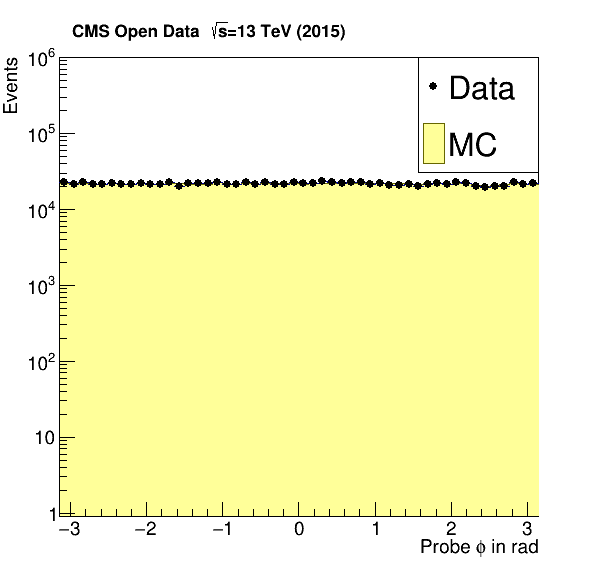
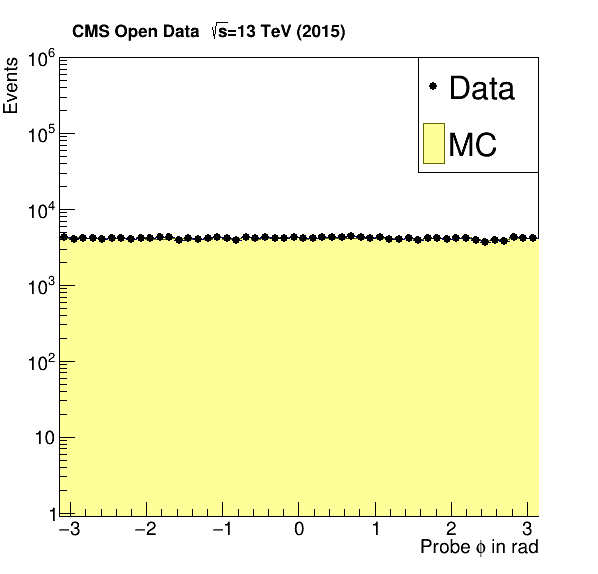
Updated tagnprobe graphs of ptetaphi

Changed region(s): [[0.0903, 0.2962, 0.903, 0.4443]]

diff --git a/ptetaphitnp/ptetaphiplots.cc b/ptetaphitnp/ptetaphiplots.cc
@@ -104,21 +104,21 @@ void ptetaphiplots() {
 
     // Create histograms for data
     TH1F *tag_Et  = new TH1F("E_tag","E_T tag", 70,0,2500 );
-    TH1F *tag_pt  = new TH1F("pt_tag","p_T tag", 70,0,900 );
+    TH1F *tag_pt  = new TH1F("pt_tag","p_T tag", 70,0,500 );
     TH1F *tag_eta = new TH1F("eta_tag","|#eta| tag", 60,0,3.5 );
     TH1F *tag_phi = new TH1F("phi_tag","#phi tag", 50,-pi,pi );
     TH1F *prb_Et  = new TH1F("E_prb","Et probe", 70,0,1000 );
-    TH1F *prb_pt  = new TH1F("pt_prb","pt probe", 70,0,350 );
+    TH1F *prb_pt  = new TH1F("pt_prb","pt probe", 70,0,250 );
     TH1F *prb_eta = new TH1F("eta_prb","|#eta| probe", 60,0,3.5 );
     TH1F *prb_phi = new TH1F("phi_prb","#phi probe", 50,-pi,pi );
 
     // Create histograms for MC
     TH1F *tag_Et_MC  = new TH1F("E_tag_MC","E_T tag MC", 70,0,2500 );
-    TH1F *tag_pt_MC  = new TH1F("pt_tag_MC","p_T tag MC", 70,0,900 );
+    TH1F *tag_pt_MC  = new TH1F("pt_tag_MC","p_T tag MC", 70,0,500 );
     TH1F *tag_eta_MC = new TH1F("eta_tag_MC","|#eta| tag MC", 60,0,3.5 );
     TH1F *tag_phi_MC = new TH1F("phi_tag_MC","#phi tag MC", 50,-pi,pi );
     TH1F *prb_Et_MC  = new TH1F("E_prb_MC","Et probe MC", 70,0,1000 );
-    TH1F *prb_pt_MC  = new TH1F("pt_prb_MC","pt probe MC", 70,0,350 );
+    TH1F *prb_pt_MC  = new TH1F("pt_prb_MC","pt probe MC", 70,0,250 );
     TH1F *prb_eta_MC = new TH1F("eta_prb_MC","|#eta| probe MC", 60,0,3.5 );
     TH1F *prb_phi_MC = new TH1F("phi_prb_MC","#phi probe MC", 50,-pi,pi );
 
@@ -128,6 +128,7 @@ void ptetaphiplots() {
       if (i%10000==0)
 	std::cout<<i/10000<<"\t";
       tree->GetEntry(i);
+      if(tag_Ele_isTight==1){
       tag_Et->Fill(tag_Ele_e);
       tag_pt->Fill(tag_Ele_pt);
       tag_eta->Fill(abs(tag_Ele_eta));
@@ -135,7 +136,7 @@ void ptetaphiplots() {
       prb_Et->Fill(probe_Ele_e);
       prb_pt->Fill(probe_Ele_pt);
       prb_eta->Fill(abs(probe_Ele_eta));
-      prb_phi->Fill(probe_Ele_phi);
+      prb_phi->Fill(probe_Ele_phi);}
     }
 
     // Loop over MC entries and fill histograms
@@ -144,6 +145,7 @@ void ptetaphiplots() {
       if (i%10000==0)
 	std::cout<<i/10000<<"\t";
       tree2->GetEntry(i);
+      if(tag_Ele_isTightMC==1){
       tag_Et_MC->Fill(tag_Ele_eMC);
       tag_pt_MC->Fill(tag_Ele_ptMC);
       tag_eta_MC->Fill(abs(tag_Ele_etaMC));
@@ -151,7 +153,7 @@ void ptetaphiplots() {
       prb_Et_MC->Fill(probe_Ele_eMC);
       prb_pt_MC->Fill(probe_Ele_ptMC);
       prb_eta_MC->Fill(abs(probe_Ele_etaMC));
-      prb_phi_MC->Fill(probe_Ele_phiMC);
+      prb_phi_MC->Fill(probe_Ele_phiMC);}
     }
 
     tag_Et_MC->Scale(tag_Et->Integral()/tag_Et_MC->Integral());
